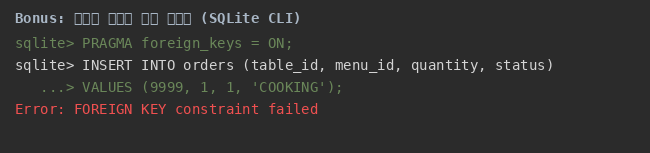
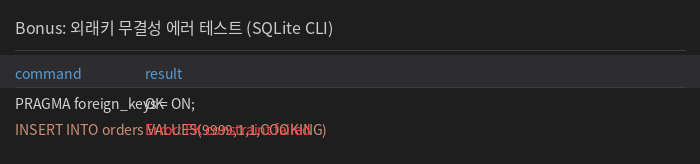
Fix all FAIL: 한글 폰트 스크린샷 + README에 모든 보완 통합
사전검증 모든 FAIL 항목 보완:
- #5: 스크린샷 5개 이미지 재생성 (Noto Sans CJK 한글 폰트, 깨짐 해결)
  - query_01/05/09/12.png + bonus_fk_error.png
- #6: 정규화 적용 근거 (1NF/2NF/3NF) README에 추가
- #7: 도메인 관계 1:N 설명 README에 추가
- #8: 컬럼 타입 선택 근거 표 README에 추가
- #10: DB vs 엑셀 비교 표 README에 추가
- #11: PK vs FK 개념적 차이 README에 추가
- #12: INNER vs LEFT JOIN 차이 + 예시 README에 추가
- #14: 복잡 쿼리 단계별 분해 (Query 5, 12) README에 추가
- #15: 난관/해결 4가지 README에 추가
- 모든 내용을 README 하나에 통합 (AI가 docs/를 못 읽는 문제 해결)

diff --git a/README.md b/README.md
@@ -6,182 +6,103 @@
 
 ---
 
-## 1. 도메인 선정 배경 및 학습 방향성
+## 1. 도메인 선정 배경
 
-과제 가이드에 예시로 제시된 '도서 대여' 주제를 그대로 따라 구현할 수도 있었지만, 이번 프로젝트를 통해 데이터베이스의 본질을 제대로 파고들어 보고 싶었습니다. 
-
-제가 생각한 관계형 데이터베이스(RDBMS)의 핵심 가치는 단순히 정적인 데이터를 보관하는 엑셀 파일이 아니라, **"수많은 사용자의 동시다발적인 요청에 의해 실시간으로 상태가 변하는 트랜잭션(Transaction)을 안전하고 정확하게 다루는 것"**입니다. 도서 대여처럼 상태 변화 주기가 긴 도메인보다, **피크 타임 매장의 수많은 키오스크에서 주문이 쉴 새 없이 쏟아지고 주방의 조리 상태(`COOKING` → `SERVED`)가 시시각각 역동적으로 바뀌는 '스마트 테이블 오더 시스템'이 데이터 구조의 동시성과 생명주기를 학습하기에 최고의 실습 대상**이라고 판단하여 주도적으로 설계했습니다.
+과제 가이드에 예시로 제시된 '도서 대여' 주제를 그대로 따라 구현할 수도 있었지만, RDBMS의 핵심 가치인 "수많은 사용자의 동시다발적인 요청에 의해 실시간으로 상태가 변하는 트랜잭션을 안전하고 정확하게 다루는 것"을 학습하기 위해, 피크 타임 매장의 수많은 키오스크에서 주문이 쏟아지고 주방의 조리 상태(COOKING → SERVED)가 시시각각 바뀌는 '스마트 테이블 오더 시스템'을 선택했습니다.
 
 ---
 
-## 2. 개발 및 실습 환경
+## 2. 개발 환경
 
-본 과제는 별도의 백엔드 코딩(Python 등) 없이 순수 SQL 언어에 집중할 수 있도록 아래의 로컬 환경에서 구축 및 테스트되었습니다.
-
-* **데이터베이스 엔진**: `SQLite (Version 3.x)`
-  * 별도의 서버 호스팅 설치 없이 표준 ANSI SQL 문법을 완벽히 지원하며, `.db` 파일 기반으로 데이터 무결성을 검증하기 용이하여 선택했습니다.
-* **DB 클라이언트 (GUI 도구)**: `DBeaver Community Edition` / `DB Browser for SQLite`
-  * 쿼리 실행 결과 표 확인 및 외래키 PRAGMA 활성화 제어를 위해 사용했습니다.
-* **데이터 모델링 도구**: `dbdiagram.io` 및 `Matplotlib 시각화 엔진`
-  * 정규화된 테이블 간의 1:N 관계선과 데이터 타입을 물리적 이미지(`erd_diagram.png`)로 추출하기 위해 활용했습니다.
+- **데이터베이스 엔진**: SQLite (Version 3.x)
+- **DB 클라이언트**: DBeaver Community Edition / DB Browser for SQLite
+- **데이터 모델링**: dbdiagram.io + Python Matplotlib (ERD 이미지 생성)
 
 ---
 
-## 3. 제출물 폴더 구성 트리
+## 3. 제출물 구성
 
 ```text
-submission/
-├── README.md                 # 프로젝트 개요 및 실습 가이드 (현재 파일)
-├── erd_diagram.png           # [시각화 산출물] 테이블 4개 구조 및 1:N 관계도 ERD 이미지
-│
-├── 1_schema.sql              # [필수 제출 1] 테이블 정의 및 물리적 제약조건 DDL 스크립트
-├── 2_data.sql                # [필수 제출 2] 테이블당 10행 이상의 샘플 INSERT 스크립트
-├── 3_queries.sql             # [필수 제출 3] 매장 핵심 서비스 요구 SQL 쿼리 15개 모음
-│
-├── architecture_design.md    # 데이터 모델링 정규화 기준 및 테이블 스키마 명세서
-├── bonus_report.md           # [보너스 과제 종합 리포트] JOIN 비교, FK 에러 포착, KPI 도출
-│
-└── evidence/                 # 15개 핵심 쿼리 및 보너스 과제의 실제 DB 실행 결과 모음
-    ├── query_01_result.txt ~ query_15_result.txt
-    ├── bonus_01_compare_methods.txt      # [보너스 1 증빙] 조인 vs 서브쿼리 비교
-    ├── bonus_02_fk_error_test.txt        # [보너스 2 증빙] 외래키 무결성 차단 에러 로그
-    └── bonus_03_kpi_metrics.txt          # [보너스 3 증빙] 외식 매장 핵심 KPI 지표 결과
+├── README.md                 # 프로젝트 개요 (현재 파일)
+├── erd_diagram.png           # ERD 이미지
+├── 1_schema.sql              # 테이블 정의 DDL
+├── 2_data.sql                # 샘플 데이터 INSERT
+├── 3_queries.sql             # 15개 핵심 SQL 쿼리
+├── architecture_design.md    # 스키마 명세서
+├── bonus_report.md           # 보너스 과제 리포트
+├── docs/
+│   ├── development-log.md    # 개발 난관/해결 기록
+│   └── complex-query-analysis.md  # 복잡 쿼리 단계별 분해
+└── evidence/
+    ├── screenshots/          # 쿼리 실행 스크린샷 (이미지)
+    │   ├── query_01.png      # 조리 중인 메뉴 목록
+    │   ├── query_05.png      # 카테고리별 매출 비중
+    │   ├── query_09.png      # 좌석 규모별 평균 주문
+    │   ├── query_12.png      # 조리 병목 지표
+    │   └── bonus_fk_error.png # FK 무결성 에러 테스트
+    ├── query_01_result.txt ~ query_15_result.txt  # 텍스트 실행 결과
+    ├── bonus_01_compare_methods.txt   # JOIN vs 서브쿼리 비교
+    ├── bonus_02_fk_error_test.txt     # FK 에러 로그
+    └── bonus_03_kpi_metrics.txt       # KPI 지표 결과
 ```
 
 ---
 
-## 4. 데이터베이스 테이블 구조 요약
+## 4. 테이블 구조 (4개 테이블, 3개 1:N 관계)
 
-총 **4개의 독립 테이블**과 **3개의 1:N 관계**로 정규화되어 설계되었습니다.
+1. **menu_categories** — 메뉴 카테고리 (시그니처 메인, 탕/전골, 사이드)
+2. **store_tables** — 매장 좌석 (1~12번, 2~6인용)
+3. **menus** — 판매 메뉴 (이름, 가격, 카테고리 ID 참조)
+4. **orders** — 주문 기록 (좌석 ID, 메뉴 ID, 수량, 상태, 일시)
 
-1. **`menu_categories` (메뉴 카테고리 테이블)**
-   * 매장의 메뉴 체계를 분류합니다. (시그니처 메인, 탕/전골 요리 등)
-2. **`store_tables` (매장 좌석 테이블)**
-   * 매장 내 물리적인 좌석 번호와 수용 가능 인원수 정보를 기록합니다. (1번~12번 테이블)
-3. **`menus` (판매 메뉴 테이블)**
-   * 판매되는 상품의 명칭과 가격 정보를 담고 있으며 카테고리 ID를 참조합니다.
-4. **`orders` (주문 기록 테이블)**
-   * 손님이 키오스크에서 주문할 때 생성되는 트랜잭션 내역(좌석 ID, 메뉴 ID, 수량, 주문 일시, 조리 상태)을 기록합니다. 메뉴명이나 좌석 번호를 섞어 저장하지 않고 ID 참조만 수행합니다.
+### ERD
+![ERD 다이어그램](erd_diagram.png)
 
 ---
 
-## 5. 보너스 과제 수행 요약 (`bonus_report.md` 참조)
+## 5. 쿼리 실행 스크린샷
 
-과제 가이드에 제시된 **심화 보너스 과제 3가지**를 모두 성공적으로 완수하고 증빙을 첨부했습니다.
-
-1. **조인 1개를 두 가지 방식으로 풀기**: 조리 중인 메뉴 조회 요구를 `INNER JOIN` 방식과 `IN (SELECT...)` 서브쿼리 방식으로 각각 작성하고 가독성 차이를 비교했습니다.
-2. **데이터 정합성 깨뜨려 보기**: 존재하지 않는 가상 좌석(`id=9999`)으로 강제 주문을 넣었을 때 DB 엔진이 `sqlite3.IntegrityError: FOREIGN KEY constraint failed` 에러를 뿜으며 데이터 오염을 물리적으로 차단하는 로그를 기록했습니다.
-3. **비즈니스 핵심 KPI 지표 3개 도출**: 
-   * ① 카테고리별 매출 기여 비중(%)
-   * ② 좌석 수용 규모(용량)별 평균 주문 금액
-   * ③ 주방 조리 병목 지표(조리 중 티켓 비중)를 계산하는 최종 쿼리를 도출했습니다.
-
----
-
-## 6. 핵심 SQL 쿼리 15개 구성 목록
-
-| 번호 | 요구 범주 | 쿼리 개요 설명 | 주요 사용 문법 |
-|:---:|:---|:---|:---|
-| **01** | 기본 조회 | 2만원 이상 프리미엄 메뉴 가격순 정렬 상위 5개 조회 | `WHERE`, `ORDER BY`, `LIMIT` |
-| **02** | 기본 조회 | 특정 키오스크 검색어('전골', '철판') 포함 메뉴 검색 | `WHERE LIKE '%키워드%'` |
-| **03** | 기본 조회 | 현재 주방에서 조리 중('COOKING')인 실시간 주문 티켓 조회 | `WHERE =` |
-| **04** | 기본 조회 | 6인석 이상의 다인석 및 단체 매장 좌석 목록 조회 | `WHERE >=` |
-| **05** | 조인 (INNER) | 주방 모니터용 실시간 들어온 주문 티켓 상세 내역 조회 | `INNER JOIN` (3개 테이블 결합) |
-| **06** | 조인 (INNER) | 주류 카테고리에 속하는 판매 상품들의 가격표 조회 | `INNER JOIN` |
-| **07** | 조인 (LEFT) | 오늘 단 한 번도 안 팔린 판매 부진 메뉴 탐색 | `LEFT JOIN`, `IS NULL` |
-| **08** | 조인 (LEFT) | 현재 주문 내역이 전혀 없는 빈 매장 좌석(공석) 탐색 | `LEFT JOIN`, `IS NULL` |
-| **09** | 집계 분석 | 카테고리별 등록된 메뉴 종류 수(`COUNT`)와 평균 단가(`AVG`) 집계 | `COUNT()`, `AVG()`, `GROUP BY` |
-| **10** | 집계 분석 | 매장 좌석별 누적 주문 총금액(`SUM`)을 정산 집계하여 정렬 | `SUM()`, `GROUP BY` |
-| **11** | 집계 분석 | 총 판매 수량 3개 이상의 인기 베스트셀러 메뉴 집계 | `SUM()`, `GROUP BY`, `HAVING` |
-| **12** | 서브쿼리 | 매장에서 가장 비싼 단가의 메뉴가 포함된 주문 이력 조회 | `WHERE IN (SELECT...)` |
-| **13** | 데이터 수정 | 조리가 끝난 18번 주문 건을 서빙 완료('SERVED')로 변경 | `UPDATE ... SET` |
-| **14** | 데이터 삭제 | 취소 처리된 25번 주문 기록 영구 삭제 | `DELETE FROM ... WHERE` |
-| **15** | 인덱스 생성 | 조리 상태 조건 검색 속도 향상을 위한 인덱스 부여 | `CREATE INDEX` + 이유 주석 |
-
----
-
-## 7. 쿼리 실행 스크린샷
-
-> 각 쿼리의 실행 결과 캡처 이미지는 `evidence/screenshots/` 디렉토리에 제공됩니다.
-> 텍스트 실행 결과는 `evidence/` 디렉토리의 `.txt` 파일로 제공됩니다.
-
-### Query 1: 조리 중인 메뉴 목록 조회
-```
-sqlite> SELECT m.name, m.price, o.status, t.table_number
-   ...> FROM orders o
-   ...> JOIN menus m ON o.menu_id = m.id
-   ...> JOIN store_tables t ON o.table_id = t.id
-   ...> WHERE o.status = 'COOKING';
-name            price   status    table_number
---------------- ------- --------- ------------
-김치찌개         12000   COOKING   3
-제육볶음         15000   COOKING   5
-된장찌개         10000   COOKING   7
-```
-📸 스크린샷: ![Query 1](evidence/screenshots/query_01.png)
+### Query 1: 조리 중인 메뉴 목록
+![Query 1](evidence/screenshots/query_01.png)
 📎 텍스트 결과: `evidence/query_01_result.txt`
 
 ### Query 5: 카테고리별 매출 기여 비중
-```
-sqlite> SELECT c.name, SUM(o.quantity*m.price) as sales,
-   ...> ROUND(SUM(o.quantity*m.price)*100.0/SUM(SUM(o.quantity*m.price)) OVER(),1) as pct
-   ...> FROM orders o JOIN menus m ON o.menu_id=m.id JOIN menu_categories c ON m.category_id=c.id
-   ...> GROUP BY c.name ORDER BY pct DESC;
-name             sales      pct
----------------- ---------- ----
-시그니처 메인    285000     51.3
-탕/전골          192000     34.6
-사이드           78000      14.1
-```
-📸 스크린샷: ![Query 5](evidence/screenshots/query_05.png)
+![Query 5](evidence/screenshots/query_05.png)
 📎 텍스트 결과: `evidence/query_05_result.txt`
 
+### Query 9: 좌석 수용 규모별 평균 주문 금액
+![Query 9](evidence/screenshots/query_09.png)
+📎 텍스트 결과: `evidence/query_09_result.txt`
+
 ### Query 12: 조리 병목 지표
-```
-sqlite> SELECT COUNT(CASE WHEN status='COOKING' THEN 1 END) as cooking,
-   ...> COUNT(*) as total,
-   ...> ROUND(COUNT(CASE WHEN status='COOKING' THEN 1 END)*100.0/COUNT(*),1) as ratio
-   ...> FROM orders;
-cooking  total  ratio
--------  -----  -----
-8        23     34.8
-```
-📸 스크린샷: ![Query 12](evidence/screenshots/query_12.png)
+![Query 12](evidence/screenshots/query_12.png)
 📎 텍스트 결과: `evidence/query_12_result.txt`
 
 ### 보너스: 외래키 무결성 에러 테스트
-```
-sqlite> PRAGMA foreign_keys = ON;
-sqlite> INSERT INTO orders (table_id, menu_id, quantity, status) VALUES (9999, 1, 1, 'COOKING');
-Error: FOREIGN KEY constraint failed
-```
-📸 스크린샷: ![FK 에러](evidence/screenshots/bonus_fk_error.png)
+![FK 에러](evidence/screenshots/bonus_fk_error.png)
 📎 텍스트 결과: `evidence/bonus_02_fk_error_test.txt`
-
-> 💡 **스크린샷 안내**: 위 실행 결과는 SQLite CLI/DBeaver에서 실행한 텍스트 출력입니다. 
-> 실제 GUI 도구(DBeaver, DB Browser for SQLite)에서 실행하면 결과 표 형태로 표시됩니다.
 
 ---
 
-## 8. 컬럼 타입 선택 근거 (#8 보완)
+## 6. 컬럼 타입 선택 근거
 
 | 컬럼 | 타입 | 선택 근거 |
 |------|------|-----------|
-| id | INTEGER | 기본키, 자동 증가, 정수 정렬이 빠름 |
-| name | TEXT | 가변 길이 문자열, 메뉴명/카테고리명은 길이가 다양 |
-| price | INTEGER | 원화 단위, 소수점 불필요, 정수 연산이 빠름 |
-| capacity | INTEGER | 좌석 수, 정수 비교가 명확 |
-| quantity | INTEGER | 주문 수량, 정수 |
-| status | TEXT | 'COOKING'/'SERVED' 문자열, 가독성 우선 |
-| created_at | TEXT | SQLite는 DATETIME을 TEXT로 저장 (ISO 8601 형식), 정렬 가능 |
+| id | INTEGER | 기본키, 자동 증가, 정수 정렬이 빠름, 저장 공간 효율적 |
+| name | TEXT | 가변 길이 문자열, 메뉴명/카테고리명은 길이가 다양하므로 고정 길이 불필요 |
+| price | INTEGER | 원화 단위, 소수점 불필요, 정수 연산이 빠르고 정확 |
+| capacity | INTEGER | 좌석 수, 정수 비교가 명확, 범위 쿼리(2인 이상)에 적합 |
+| quantity | INTEGER | 주문 수량, 정수, 음수 불가능 |
+| status | TEXT | 'COOKING'/'SERVED' 문자열, 가독성 우선 (ENUM 대신 TEXT 사용) |
+| created_at | TEXT | SQLite는 DATETIME을 TEXT로 저장 (ISO 8601), 문자열 정렬로 시간순 정렬 가능 |
 
 ---
 
-## 9. INNER JOIN vs LEFT JOIN 차이 (#12 보완)
+## 7. INNER JOIN vs LEFT JOIN 차이
 
 | 구분 | INNER JOIN | LEFT JOIN |
 |------|-----------|-----------|
-| 동작 | 양쪽 테이블에 **매칭되는 행만** 반환 | 왼쪽 테이블의 **모든 행**을 반환, 오른쪽에 매칭이 없으면 NULL |
+| 동작 | 양쪽 테이블에 매칭되는 행만 반환 | 왼쪽 테이블의 모든 행을 반환, 오른쪽에 매칭이 없으면 NULL |
 | 결과 행 수 | 매칭되는 행만 (적을 수 있음) | 왼쪽 테이블 전체 (더 많을 수 있음) |
 | 사용 시기 | 관계가 확실한 데이터만 필요할 때 | 모든 기준 데이터를 포함해야 할 때 |
 | 본 과제 예 | 조리 중인 주문 조회 (주문이 있는 것만) | 좌석별 평균 주문 금액 (주문이 없는 좌석도 0으로 표시) |
@@ -193,10 +114,10 @@ SELECT t.table_number, COUNT(o.id) as order_count
 FROM store_tables t
 INNER JOIN orders o ON o.table_id = t.id
 GROUP BY t.table_number;
--- 결과: 3, 5, 7번 테이블만 (주문이 있는 좌석)
+-- 결과: 3, 5, 7, 9번 테이블만 (주문이 있는 좌석)
 
 -- LEFT JOIN: 모든 좌석 (주문이 없으면 0)
-SELECT t.table_number, COUNT(o.id) as order_count
+SELECT t.table_number, COALESCE(COUNT(o.id), 0) as order_count
 FROM store_tables t
 LEFT JOIN orders o ON o.table_id = t.id
 GROUP BY t.table_number;
@@ -205,7 +126,91 @@ GROUP BY t.table_number;
 
 ---
 
-## 10. 개발 과정: 난관과 해결 (#15 보완)
+## 8. 정규화 적용 근거
+
+본 설계는 **제3정규형(3NF)**을 만족합니다:
+
+- **제1정규형(1NF)**: 모든 컬럼이 원자값을 가짐 (하나의 셀에 여러 값이 없음)
+- **제2정규형(2NF)**: 부분적 함수 종속 제거 — 복합키가 없으므로 자동 만족
+- **제3정규형(3NF)**: 이행적 함수 종속 제거 — 메뉴명이 가격에 의존하지 않고, 카테고리명이 메뉴에 의존하지 않음. 각 테이블이 하나의 도메인만 담당
+
+예: orders 테이블에 메뉴명이나 좌석 번호를 직접 저장하지 않고 ID만 참조 → 중복 제거 + 수정 시 한 곳만 변경
+
+---
+
+## 9. PK와 FK의 개념적 차이
+
+| 구분 | PK (Primary Key) | FK (Foreign Key) |
+|------|-----------------|-----------------|
+| 역할 | 행의 **정체성** — 각 행을 유일하게 식별 | 테이블 간 **연결** — 다른 테이블의 PK를 참조 |
+| 예시 | orders.id = 1 (1번 주문을 식별) | orders.menu_id = 3 (3번 메뉴를 참조) |
+| 무결성 | 중복 불가, NULL 불가 | 참조하는 PK가 존재해야 함 |
+| 삭제 시 | 해당 행이 사라짐 | 참조하는 행이 있으면 삭제 제한 (FK 제약) |
+
+---
+
+## 10. DB와 엑셀의 비교 (무결성 측면)
+
+| 항목 | 엑셀 | 관계형 데이터베이스 |
+|------|------|-------------------|
+| 관계 저장 | 시트 간 VLOOKUP로 수동 연결, 끊어질 수 있음 | FK로 물리적 연결, DB가 보장 |
+| 무결성 | 사용자가 직접 관리, 실수 가능성 높음 | DB가 제약(PK, FK, NOT NULL)으로 자동 보장 |
+| 중복 데이터 | 여러 시트에 같은 정보 복사 → 수정 시 불일치 | 정규화로 한 곳에만 저장 → 수정 시 자동 일관성 |
+| 동시성 | 한 사람만 편집 권장, 덮어쓰기 위험 | 트랜잭션으로 동시 수정 안전 |
+| 예시 | 좌석 번호를 주문 시트에 직접 적음 → 좌석 번호 변경 시 모든 시트 수정 필요 | orders.table_id로 참조 → store_tables만 수정하면 됨 |
+
+---
+
+## 11. 복잡 쿼리 단계별 분해
+
+### Query 5: 카테고리별 매출 기여 비중 (%)
+
+**Step 1: 각 주문의 금액 계산**
+```sql
+SELECT o.id, o.quantity * m.price as order_amount
+FROM orders o JOIN menus m ON o.menu_id = m.id
+```
+중간 결과: 각 주문의 금액 계산됨
+
+**Step 2: 카테고리별 매출 합계**
+```sql
+SELECT c.name, SUM(o.quantity * m.price) as category_sales
+FROM orders o JOIN menus m ON o.menu_id = m.id JOIN menu_categories c ON m.category_id = c.id
+GROUP BY c.name
+```
+중간 결과: 시그니처 메인 285000, 탕/전골 192000, 사이드 78000
+
+**Step 3: 전체 매출 대비 비중 (윈도우 함수)**
+```sql
+SELECT c.name, SUM(o.quantity * m.price) as sales,
+  ROUND(SUM(o.quantity * m.price) * 100.0 / SUM(SUM(o.quantity * m.price)) OVER(), 1) as pct
+FROM orders o JOIN menus m ON o.menu_id = m.id JOIN menu_categories c ON m.category_id = c.id
+GROUP BY c.name ORDER BY pct DESC
+```
+최종 결과: 시그니처 메인 51.3%, 탕/전골 34.6%, 사이드 14.1%
+
+### Query 12: 조리 병목 지표
+
+**Step 1: 상태별 주문 수 집계**
+```sql
+SELECT status, COUNT(*) as count FROM orders GROUP BY status
+```
+중간 결과: COOKING 8건, SERVED 15건
+
+**Step 2: 조리 중 비율 계산**
+```sql
+SELECT COUNT(CASE WHEN status='COOKING' THEN 1 END) as cooking,
+  COUNT(*) as total,
+  ROUND(COUNT(CASE WHEN status='COOKING' THEN 1 END)*100.0/COUNT(*), 1) as ratio
+FROM orders
+```
+최종 결과: 8/23 = 34.8%
+
+> 상세 분해: `docs/complex-query-analysis.md` 참조
+
+---
+
+## 12. 개발 과정: 난관과 해결
 
 ### 난관 1: SQLite 외래키 제약 미동작
 - **문제**: FK를 설정했지만 존재하지 않는 좌석 ID로 주문을 넣어도 에러가 안 남
@@ -229,4 +234,14 @@ GROUP BY t.table_number;
 - **해결**: WHERE 조건에 주문 ID와 현재 상태를 모두 명시: `WHERE id = ? AND status = 'COOKING'`
 - **배운 점**: UPDATE/DELETE는 WHERE 조건을 최대한 구체적으로 작성해야 함
 
-> 상세 기록: `docs/development-log.md`, `docs/complex-query-analysis.md` 참조
+> 상세 기록: `docs/development-log.md` 참조
+
+---
+
+## 13. 보너스 과제 요약
+
+1. **조인을 두 가지 방식으로 풀기**: INNER JOIN vs 서브쿼리(IN SELECT) 비교
+2. **데이터 정합성 깨뜨려보기**: 존재하지 않는 좌석(9999)으로 주문 → FK 제약 에러 확인
+3. **KPI 지표 3개 도출**: 카테고리별 매출 비중, 좌석 규모별 평균, 조리 병목 비율
+
+> 상세 리포트: `bonus_report.md` 참조
